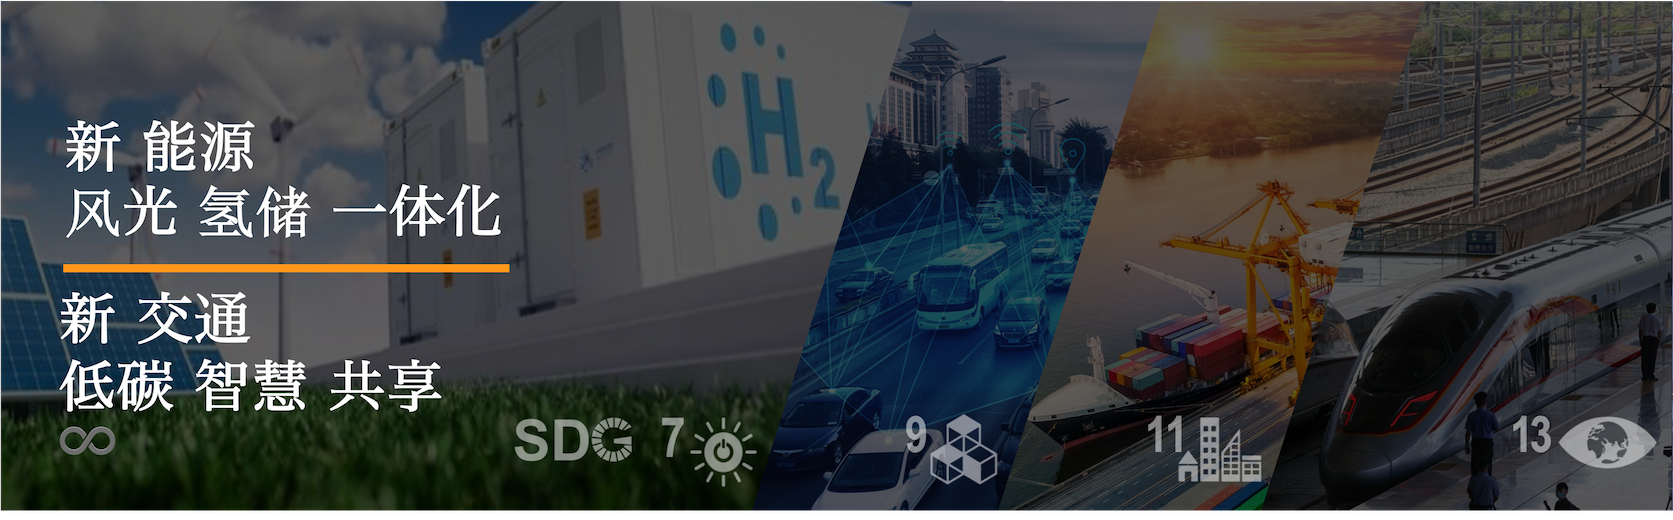
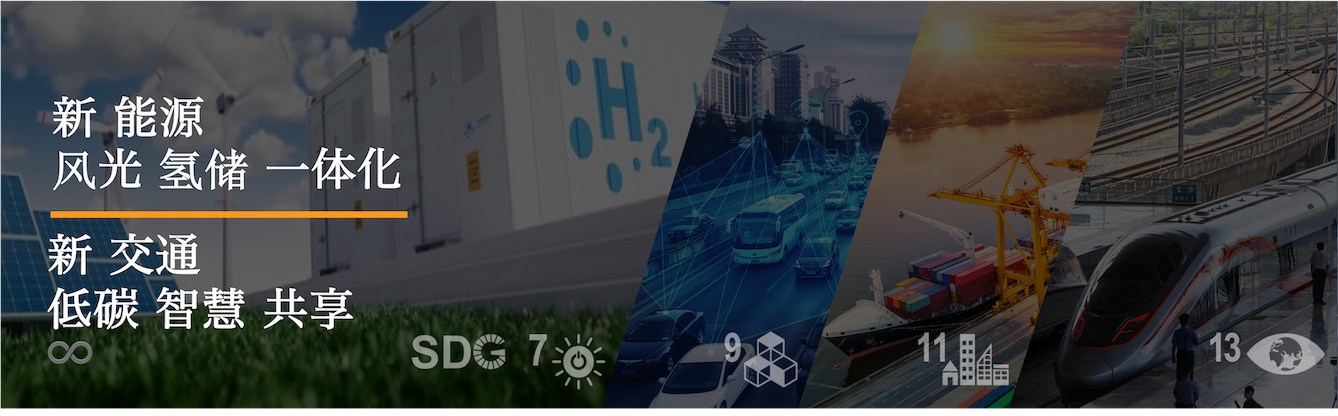
update

diff --git a/cn.html b/cn.html
@@ -199,7 +199,7 @@
     <div class="hidden-mobile" class="three columns sidebar">
       <nav>
         <h3 id="logo" style="text-align:center;">
-          <img class="hidden-mobile" src="images/banner_cns3_left.png" width="155" />
+          <img class="hidden-mobile" src="images/banner_cns3_left.webp" width="155" />
           <div style="margin-bottom: 15px;"></div>
           <h3 class="hidden-mobile" align="left"><ruby>徐<rt><text style="letter-spacing: -5px;">ㄒㄩˊ</text></rt></ruby>
             <ruby>泓<rt><text style="letter-spacing: -4px;">ㄏㄨㄥˊ</text></rt></ruby> <small><ruby>博 士<rt>科学 / Dr.</rt>
@@ -242,7 +242,7 @@
       <!--<img class="hidden-mobile" src="images/banner_cns2.png" width="800" />-->
 
       <div class="image-wrapper hidden-mobile ">
-        <img src="images/banner_cns3.png" width="800" alt="banner Image" />
+        <img src="images/banner_cns3.webp" width="800" alt="banner Image" />
         <div class="orange-dot" alt="Hamburg" style="top: 23.1%; left: 50.9%;"></div>
         <div class="orange-dot" alt="Paris" style="top: 29.5%; left: 48.4%;"></div>
         <div class="orange-dot" alt="Munich" style="top: 31.3%; left: 51.6%;"></div>

diff --git a/cn-research.html b/cn-research.html
@@ -293,7 +293,7 @@
         <div class="hidden-mobile" class="three columns sidebar">
             <nav>
                 <h3 id="logo" style="text-align:center;">
-                    <img class="hidden-mobile" src="images/banner_cns4_left.png" width="155" />
+                    <img class="hidden-mobile" src="images/banner_cns4_left.webp" width="155" />
                     <div style="margin-bottom: 15px;"></div>
                     <h3 class="hidden-mobile" align="left"><ruby>徐<rt><text style="letter-spacing: -5px;">ㄒㄩˊ</text>
                             </rt></ruby>
@@ -332,7 +332,7 @@
         <div class="twelve columns offset-by-four content">
 
             <div class="image-wrapper hidden-mobile ">
-                <img src="images/banner_cns4.png" width="800" alt="banner Image" />
+                <img src="images/banner_cns4.webp" width="800" alt="banner Image" />
                 <!-- <div class="orange-dot" alt="Hamburg" style="top: 23.1%; left: 50.9%;"></div>
                 <div class="orange-dot" alt="Paris" style="top: 29.5%; left: 48.4%;"></div>
                 <div class="orange-dot" alt="Munich" style="top: 31.3%; left: 51.6%;"></div>

diff --git a/cn-resume.html b/cn-resume.html
@@ -293,7 +293,7 @@
     <div class="hidden-mobile" class="three columns sidebar">
       <nav>
         <h3 id="logo" style="text-align:center;">
-          <img class="hidden-mobile" src="images/banner_cns5_left.png" width="155" />
+          <img class="hidden-mobile" src="images/banner_cns5_left.webp" width="155" />
           <div style="margin-bottom: 15px;"></div>
           <h3 class="hidden-mobile" align="left"><ruby>徐<rt><text style="letter-spacing: -5px;">ㄒㄩˊ</text></rt></ruby>
             <ruby>泓<rt><text style="letter-spacing: -4px;">ㄏㄨㄥˊ</text></rt></ruby> <small><ruby>博 士<rt>科学 / Dr.</rt>
@@ -333,7 +333,7 @@
       <!--<img class="hidden-mobile" src="images/banner_cns2.png" width="800" />-->
 
       <div class="image-wrapper hidden-mobile ">
-        <img src="images/banner_cns5.png" width="800" alt="banner Image" />
+        <img src="images/banner_cns5.webp" width="800" alt="banner Image" />
  
 
       </div>

diff --git a/cn-activities.html b/cn-activities.html
@@ -295,7 +295,7 @@
     <div class="hidden-mobile" class="three columns sidebar">
       <nav>
         <h3 id="logo" style="text-align:center;">
-          <img class="hidden-mobile" src="images/banner_cns6_left.png" width="155" />
+          <img class="hidden-mobile" src="images/banner_cns6_left.webp" width="155" />
           <div style="margin-bottom: 15px;"></div>
           <h3 class="hidden-mobile" align="left"><ruby>徐<rt><text style="letter-spacing: -5px;">ㄒㄩˊ</text></rt></ruby>
             <ruby>泓<rt><text style="letter-spacing: -4px;">ㄏㄨㄥˊ</text></rt></ruby> <small><ruby>博 士<rt>科学 / Dr.</rt>
@@ -337,7 +337,7 @@
       <!--<img class="hidden-mobile" src="images/banner_cns2.png" width="800" />-->
 
       <div class="image-wrapper hidden-mobile ">
-        <img src="images/banner_cns6.png" width="800" alt="banner Image" />
+        <img src="images/banner_cns6.webp" width="800" alt="banner Image" />
 
 
 
